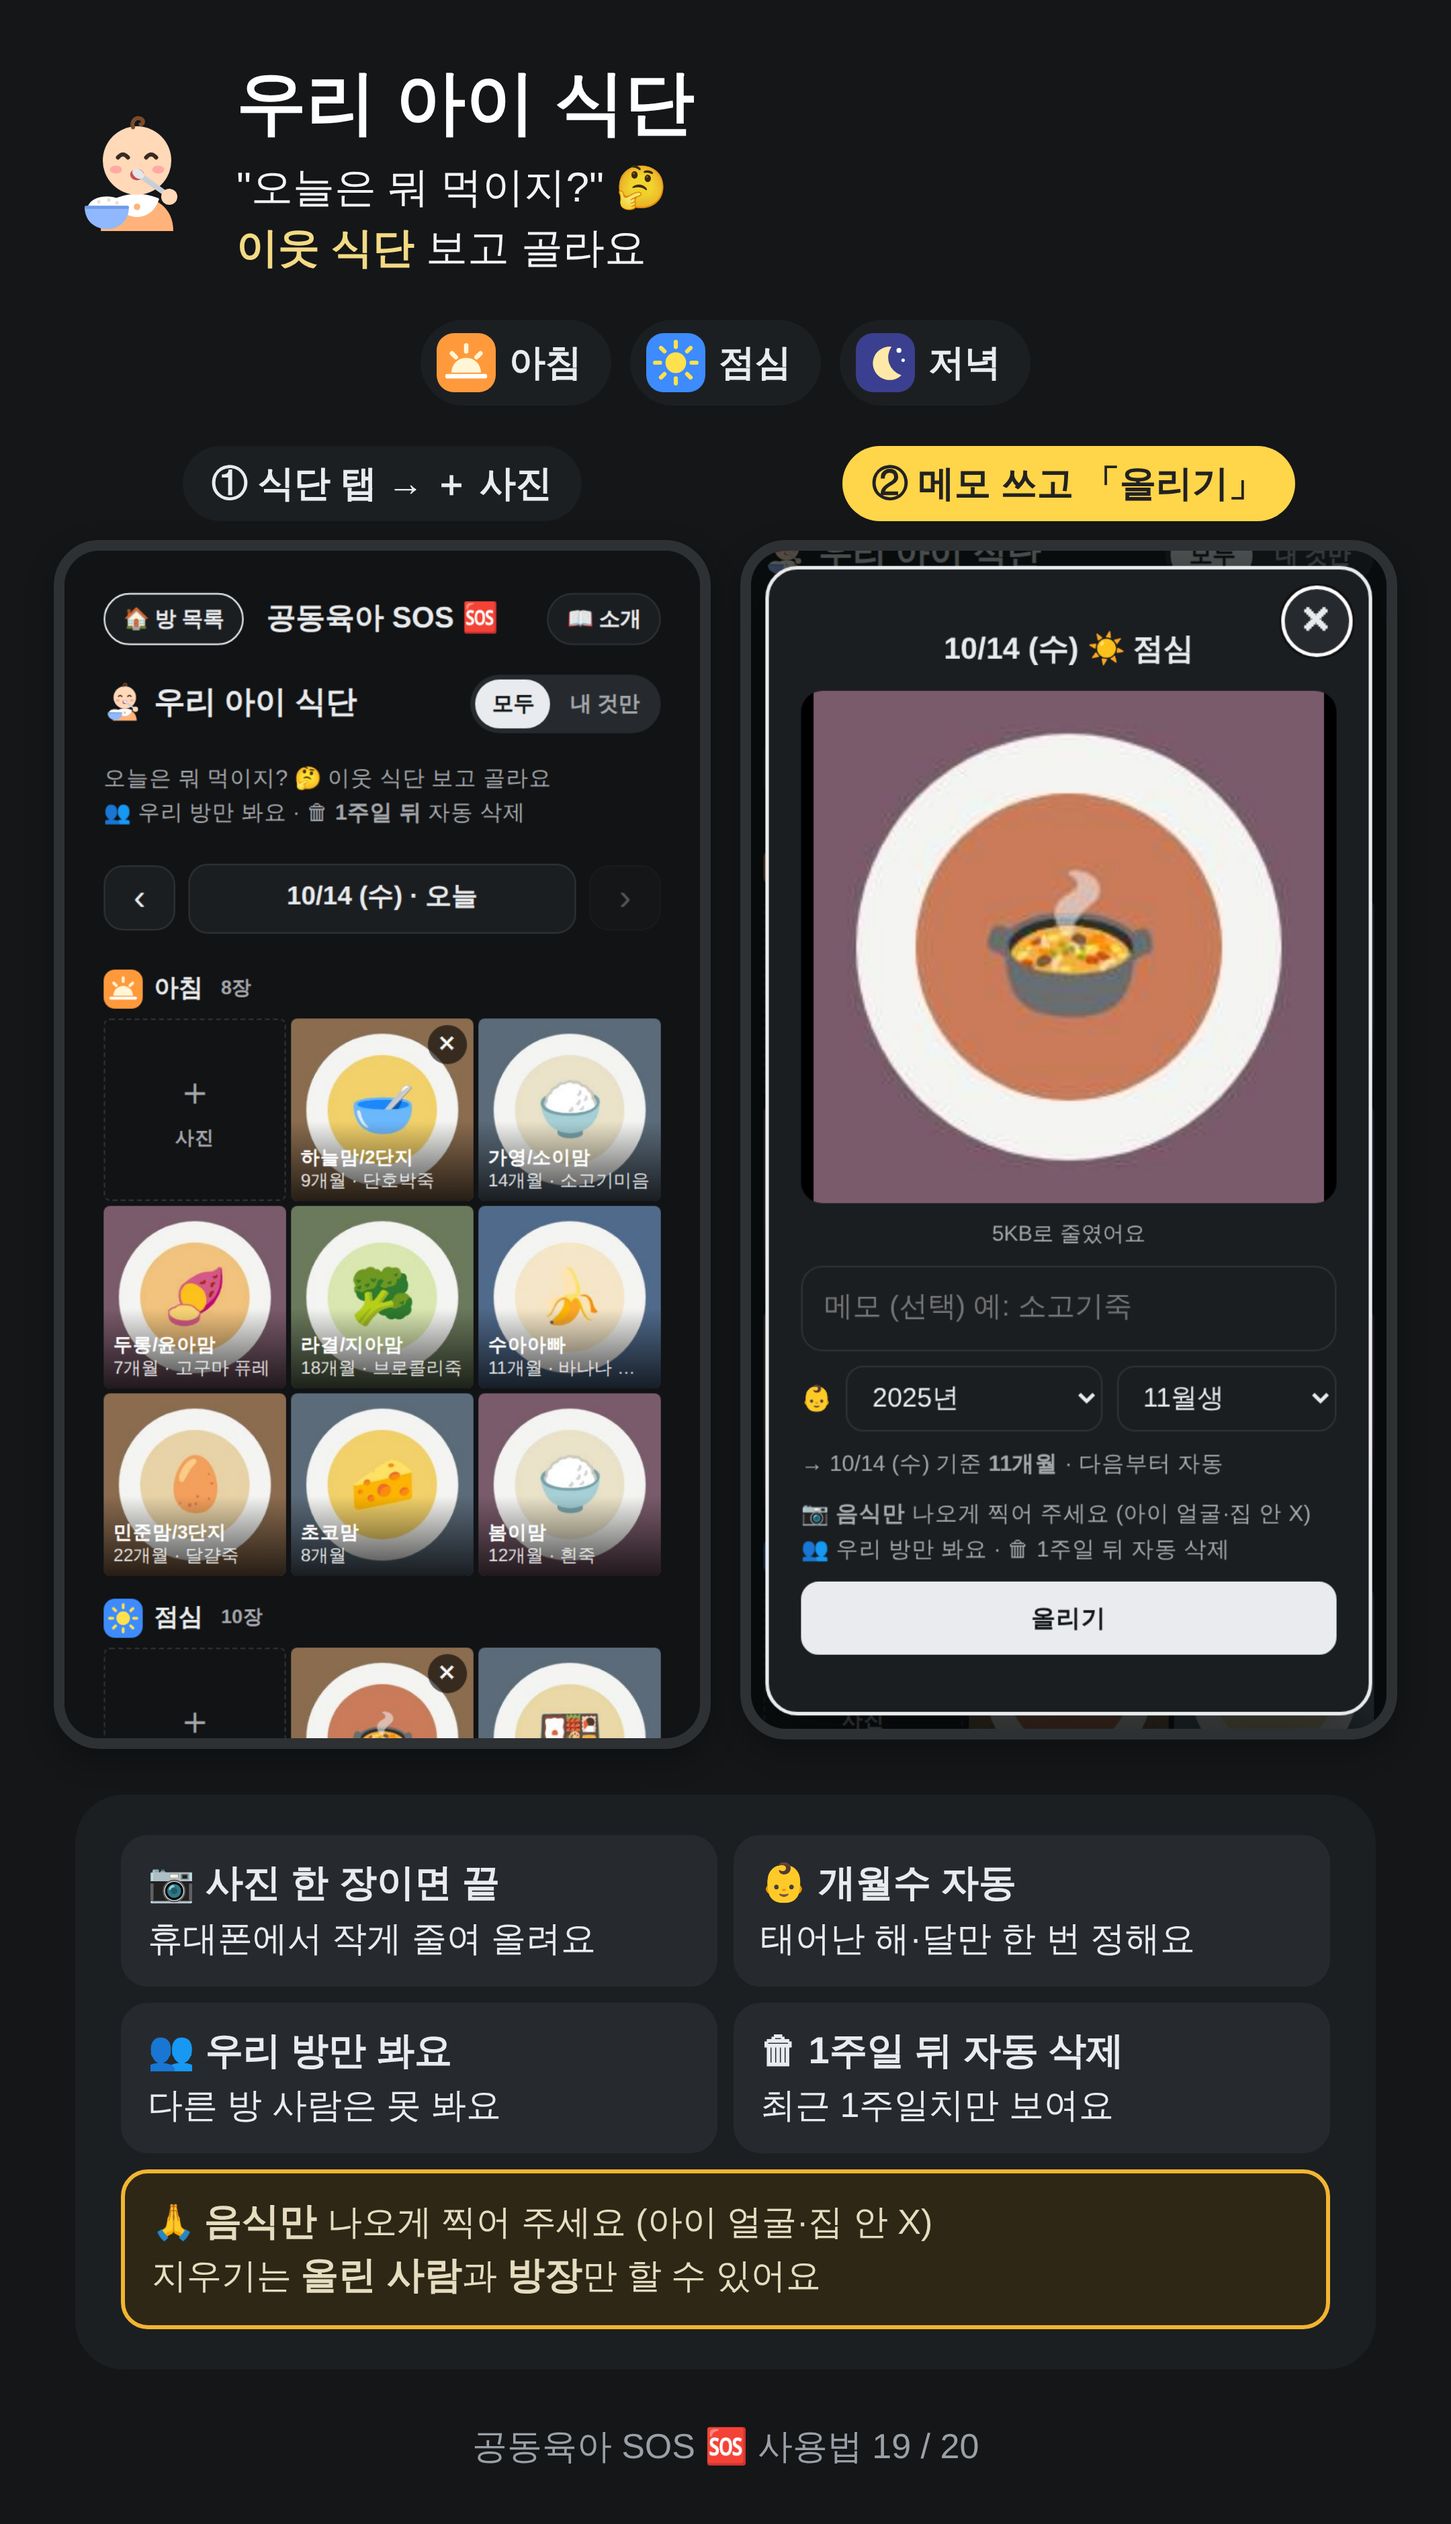
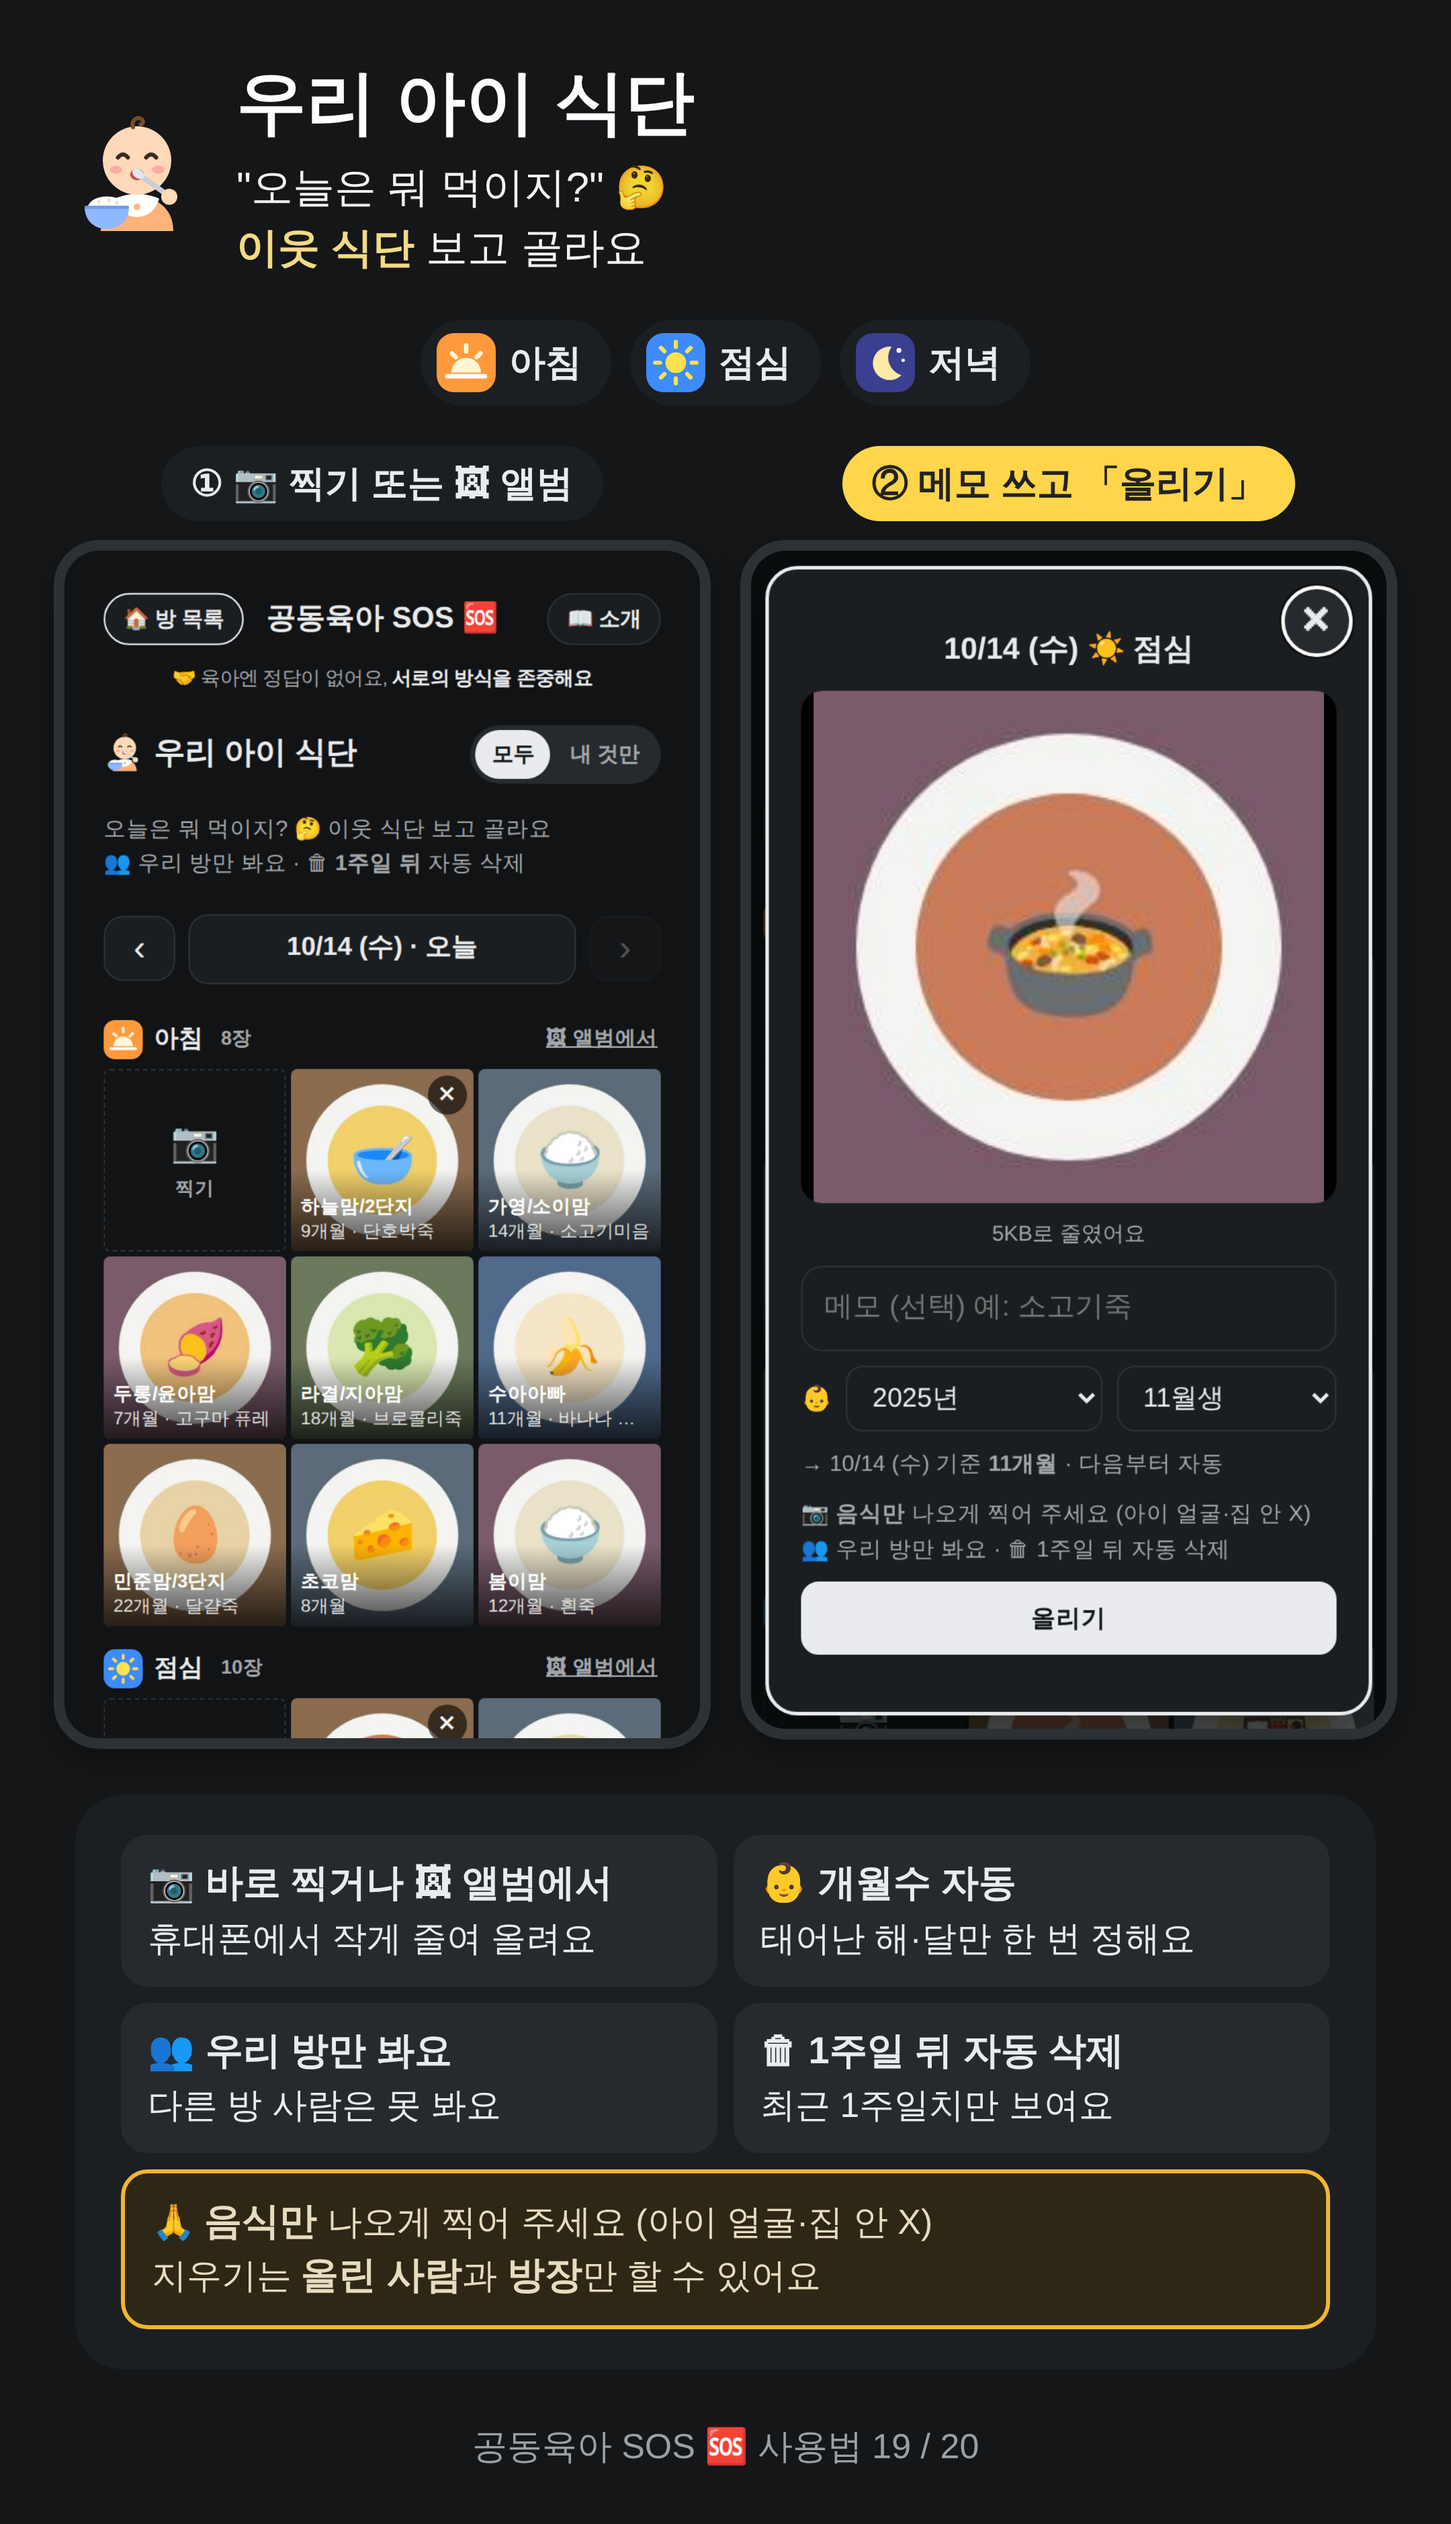
슬로건 여백 줄이고 자간 넓히기, 사용법 19번 슬라이드 찍기·앨범으로
Claude-Session: https://claude.ai/code/session_01EFizHcDdWswyQN5TmKwWHe

diff --git a/sos/safety.html b/sos/safety.html
@@ -8,14 +8,14 @@
 <link rel="preconnect" href="https://fonts.gstatic.com" crossorigin>
 <link rel="stylesheet" href="https://fonts.googleapis.com/css2?family=IBM+Plex+Sans+KR:wght@400;500;600;700&display=swap">
 <link rel="icon" href="assets/icon.svg" type="image/svg+xml">
-<link rel="manifest" href="manifest.webmanifest?v=202610140902">
+<link rel="manifest" href="manifest.webmanifest?v=202610140931">
 <meta name="theme-color" content="#2a9095">
 <link rel="apple-touch-icon" href="assets/icon-sos-180.png">
 <meta name="apple-mobile-web-app-capable" content="yes">
 <meta name="mobile-web-app-capable" content="yes">
 <meta name="apple-mobile-web-app-title" content="공동육아 SOS">
-<link rel="stylesheet" href="assets/common.css?v=202610140902">
-<script src="assets/gate.js?v=202610140902"></script>
+<link rel="stylesheet" href="assets/common.css?v=202610140931">
+<script src="assets/gate.js?v=202610140931"></script>
 </head>
 <body>
 <div class="wrap single">
@@ -139,8 +139,8 @@
 <script src="https://www.gstatic.com/firebasejs/10.12.0/firebase-auth-compat.js"></script>
 <script src="https://www.gstatic.com/firebasejs/10.12.0/firebase-firestore-compat.js"></script>
 <script src="https://www.gstatic.com/firebasejs/10.12.0/firebase-messaging-compat.js"></script>
-<script src="assets/common.js?v=202610140902"></script>
-<script src="assets/push.js?v=202610140902"></script>
+<script src="assets/common.js?v=202610140931"></script>
+<script src="assets/push.js?v=202610140931"></script>
 <script>
 document.getElementById('deleteMe').addEventListener('click', async e => {
   const owning = sosRooms().filter(r => r.owner).map(r => r.name);   // 내가 방장인 방이 있으면 먼저 알려 줘요

diff --git a/sos/index.html b/sos/index.html
@@ -9,14 +9,14 @@
 <link rel="preconnect" href="https://fonts.gstatic.com" crossorigin>
 <link rel="stylesheet" href="https://fonts.googleapis.com/css2?family=IBM+Plex+Sans+KR:wght@400;500;600;700&display=swap">
 <link rel="icon" href="assets/icon.svg" type="image/svg+xml">
-<link rel="manifest" href="manifest.webmanifest?v=202610140902">
+<link rel="manifest" href="manifest.webmanifest?v=202610140931">
 <meta name="theme-color" content="#2a9095">
 <link rel="apple-touch-icon" href="assets/icon-sos-180.png">
 <meta name="apple-mobile-web-app-capable" content="yes">
 <meta name="mobile-web-app-capable" content="yes">
 <meta name="apple-mobile-web-app-title" content="공동육아 SOS">
-<link rel="stylesheet" href="assets/common.css?v=202610140902">
-<script src="assets/gate.js?v=202610140902"></script>
+<link rel="stylesheet" href="assets/common.css?v=202610140931">
+<script src="assets/gate.js?v=202610140931"></script>
 </head>
 <body>
 <div class="wrap single">
@@ -85,8 +85,8 @@
 <script src="https://www.gstatic.com/firebasejs/10.12.0/firebase-auth-compat.js"></script>
 <script src="https://www.gstatic.com/firebasejs/10.12.0/firebase-firestore-compat.js"></script>
 <script src="https://www.gstatic.com/firebasejs/10.12.0/firebase-messaging-compat.js"></script>
-<script src="assets/common.js?v=202610140902"></script>
-<script src="assets/push.js?v=202610140902"></script>
+<script src="assets/common.js?v=202610140931"></script>
+<script src="assets/push.js?v=202610140931"></script>
 <script>
 sosSummary();
 // 🦸 구원자: 처음엔 오른쪽 위에서 흔들흔들 → 조금 뒤 테두리를 한 바퀴 날고 다시 제자리 (그 뒤로도 가끔)

diff --git a/sos/meal.html b/sos/meal.html
@@ -8,14 +8,14 @@
 <link rel="preconnect" href="https://fonts.gstatic.com" crossorigin>
 <link rel="stylesheet" href="https://fonts.googleapis.com/css2?family=IBM+Plex+Sans+KR:wght@400;500;600;700&display=swap">
 <link rel="icon" href="assets/icon.svg" type="image/svg+xml">
-<link rel="manifest" href="manifest.webmanifest?v=202610140902">
+<link rel="manifest" href="manifest.webmanifest?v=202610140931">
 <meta name="theme-color" content="#2a9095">
 <link rel="apple-touch-icon" href="assets/icon-sos-180.png">
 <meta name="apple-mobile-web-app-capable" content="yes">
 <meta name="mobile-web-app-capable" content="yes">
 <meta name="apple-mobile-web-app-title" content="공동육아 SOS">
-<link rel="stylesheet" href="assets/common.css?v=202610140902">
-<script src="assets/gate.js?v=202610140902"></script>
+<link rel="stylesheet" href="assets/common.css?v=202610140931">
+<script src="assets/gate.js?v=202610140931"></script>
 </head>
 <body>
 <div class="wrap single">
@@ -44,8 +44,8 @@
 <script src="https://www.gstatic.com/firebasejs/10.12.0/firebase-auth-compat.js"></script>
 <script src="https://www.gstatic.com/firebasejs/10.12.0/firebase-firestore-compat.js"></script>
 <script src="https://www.gstatic.com/firebasejs/10.12.0/firebase-messaging-compat.js"></script>
-<script src="assets/common.js?v=202610140902"></script>
-<script src="assets/push.js?v=202610140902"></script>
-<script src="assets/meal.js?v=202610140902"></script>
+<script src="assets/common.js?v=202610140931"></script>
+<script src="assets/push.js?v=202610140931"></script>
+<script src="assets/meal.js?v=202610140931"></script>
 </body>
 </html>

diff --git a/sos/meet.html b/sos/meet.html
@@ -8,14 +8,14 @@
 <link rel="preconnect" href="https://fonts.gstatic.com" crossorigin>
 <link rel="stylesheet" href="https://fonts.googleapis.com/css2?family=IBM+Plex+Sans+KR:wght@400;500;600;700&display=swap">
 <link rel="icon" href="assets/icon.svg" type="image/svg+xml">
-<link rel="manifest" href="manifest.webmanifest?v=202610140902">
+<link rel="manifest" href="manifest.webmanifest?v=202610140931">
 <meta name="theme-color" content="#2a9095">
 <link rel="apple-touch-icon" href="assets/icon-sos-180.png">
 <meta name="apple-mobile-web-app-capable" content="yes">
 <meta name="mobile-web-app-capable" content="yes">
 <meta name="apple-mobile-web-app-title" content="공동육아 SOS">
-<link rel="stylesheet" href="assets/common.css?v=202610140902">
-<script src="assets/gate.js?v=202610140902"></script>
+<link rel="stylesheet" href="assets/common.css?v=202610140931">
+<script src="assets/gate.js?v=202610140931"></script>
 </head>
 <body>
 <div class="wrap single">
@@ -59,8 +59,8 @@
 <script src="https://www.gstatic.com/firebasejs/10.12.0/firebase-auth-compat.js"></script>
 <script src="https://www.gstatic.com/firebasejs/10.12.0/firebase-firestore-compat.js"></script>
 <script src="https://www.gstatic.com/firebasejs/10.12.0/firebase-messaging-compat.js"></script>
-<script src="assets/common.js?v=202610140902"></script>
-<script src="assets/push.js?v=202610140902"></script>
-<script src="assets/meet.js?v=202610140902"></script>
+<script src="assets/common.js?v=202610140931"></script>
+<script src="assets/push.js?v=202610140931"></script>
+<script src="assets/meet.js?v=202610140931"></script>
 </body>
 </html>

diff --git a/sos/play.html b/sos/play.html
@@ -8,14 +8,14 @@
 <link rel="preconnect" href="https://fonts.gstatic.com" crossorigin>
 <link rel="stylesheet" href="https://fonts.googleapis.com/css2?family=IBM+Plex+Sans+KR:wght@400;500;600;700&display=swap">
 <link rel="icon" href="assets/icon.svg" type="image/svg+xml">
-<link rel="manifest" href="manifest.webmanifest?v=202610140902">
+<link rel="manifest" href="manifest.webmanifest?v=202610140931">
 <meta name="theme-color" content="#2a9095">
 <link rel="apple-touch-icon" href="assets/icon-sos-180.png">
 <meta name="apple-mobile-web-app-capable" content="yes">
 <meta name="mobile-web-app-capable" content="yes">
 <meta name="apple-mobile-web-app-title" content="공동육아 SOS">
-<link rel="stylesheet" href="assets/common.css?v=202610140902">
-<script src="assets/gate.js?v=202610140902"></script>
+<link rel="stylesheet" href="assets/common.css?v=202610140931">
+<script src="assets/gate.js?v=202610140931"></script>
 </head>
 <body>
 <div class="wrap">
@@ -135,8 +135,8 @@
 <script src="https://www.gstatic.com/firebasejs/10.12.0/firebase-app-compat.js"></script>
 <script src="https://www.gstatic.com/firebasejs/10.12.0/firebase-auth-compat.js"></script>
 <script src="https://www.gstatic.com/firebasejs/10.12.0/firebase-firestore-compat.js"></script>
-<script src="plays.js?v=202610140902"></script>
-<script src="assets/common.js?v=202610140902"></script>
-<script src="assets/play.js?v=202610140902"></script>
+<script src="plays.js?v=202610140931"></script>
+<script src="assets/common.js?v=202610140931"></script>
+<script src="assets/play.js?v=202610140931"></script>
 </body>
 </html>

diff --git a/sos/terms.html b/sos/terms.html
@@ -8,14 +8,14 @@
 <link rel="preconnect" href="https://fonts.gstatic.com" crossorigin>
 <link rel="stylesheet" href="https://fonts.googleapis.com/css2?family=IBM+Plex+Sans+KR:wght@400;500;600;700&display=swap">
 <link rel="icon" href="assets/icon.svg" type="image/svg+xml">
-<link rel="manifest" href="manifest.webmanifest?v=202610140902">
+<link rel="manifest" href="manifest.webmanifest?v=202610140931">
 <meta name="theme-color" content="#2a9095">
 <link rel="apple-touch-icon" href="assets/icon-sos-180.png">
 <meta name="apple-mobile-web-app-capable" content="yes">
 <meta name="mobile-web-app-capable" content="yes">
 <meta name="apple-mobile-web-app-title" content="공동육아 SOS">
-<link rel="stylesheet" href="assets/common.css?v=202610140902">
-<script src="assets/gate.js?v=202610140902"></script>
+<link rel="stylesheet" href="assets/common.css?v=202610140931">
+<script src="assets/gate.js?v=202610140931"></script>
 </head>
 <body>
 <div class="wrap single">
@@ -114,6 +114,6 @@
 <script src="https://www.gstatic.com/firebasejs/10.12.0/firebase-app-compat.js"></script>
 <script src="https://www.gstatic.com/firebasejs/10.12.0/firebase-auth-compat.js"></script>
 <script src="https://www.gstatic.com/firebasejs/10.12.0/firebase-firestore-compat.js"></script>
-<script src="assets/common.js?v=202610140902"></script>
+<script src="assets/common.js?v=202610140931"></script>
 </body>
 </html>

diff --git a/sos/admin.html b/sos/admin.html
@@ -12,8 +12,8 @@
 <meta name="apple-mobile-web-app-capable" content="yes">
 <meta name="mobile-web-app-capable" content="yes">
 <meta name="apple-mobile-web-app-title" content="SOS 운영">
-<link rel="stylesheet" href="assets/common.css?v=202610140902">
-<script src="assets/gate.js?v=202610140902"></script>
+<link rel="stylesheet" href="assets/common.css?v=202610140931">
+<script src="assets/gate.js?v=202610140931"></script>
 <style>
 /* 운영자 화면: 숫자 타일 → 주간 막대 → 방 표. 단일 색(teal) 막대, 상태색은 경고에만 */
 body{padding-block:20px 60px}

diff --git a/sos/guide.html b/sos/guide.html
@@ -5,7 +5,7 @@
 <meta name="viewport" content="width=device-width,initial-scale=1,viewport-fit=cover">
 <title>사용법 · 공동육아 SOS</title>
 <link rel="icon" href="assets/icon.svg" type="image/svg+xml">
-<link rel="manifest" href="manifest.webmanifest?v=202610140902">
+<link rel="manifest" href="manifest.webmanifest?v=202610140931">
 <meta name="theme-color" content="#2a9095">
 <link rel="apple-touch-icon" href="assets/icon-sos-180.png">
 <style>

diff --git a/sos/assets/common.css b/sos/assets/common.css
@@ -1266,3 +1266,5 @@ main a.cmt-pv,main a.cmt-pv span{color:var(--fg)}
 .meal-add2{display:flex;gap:6px}
 .meal-add1.alb{opacity:.85}
 .meal-alb{margin-left:auto;border:0;background:none;color:var(--muted);font:inherit;font-size:12.5px;font-weight:600;text-decoration:underline;cursor:pointer;padding:0 2px}
+.slogan{margin-top:-12px;letter-spacing:.3px}
+@media (max-width:340px){.slogan{letter-spacing:-.3px;font-size:11.5px}}
